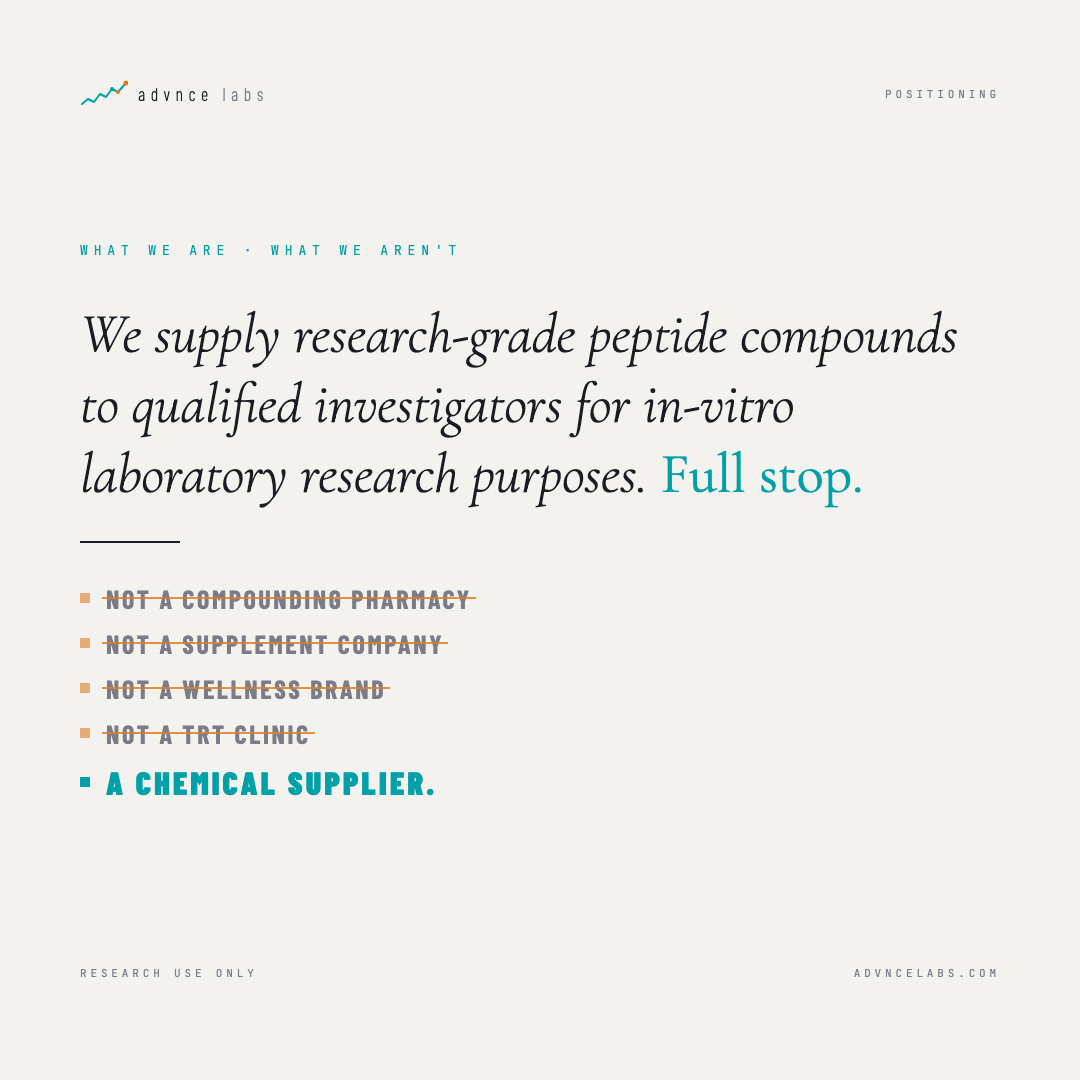
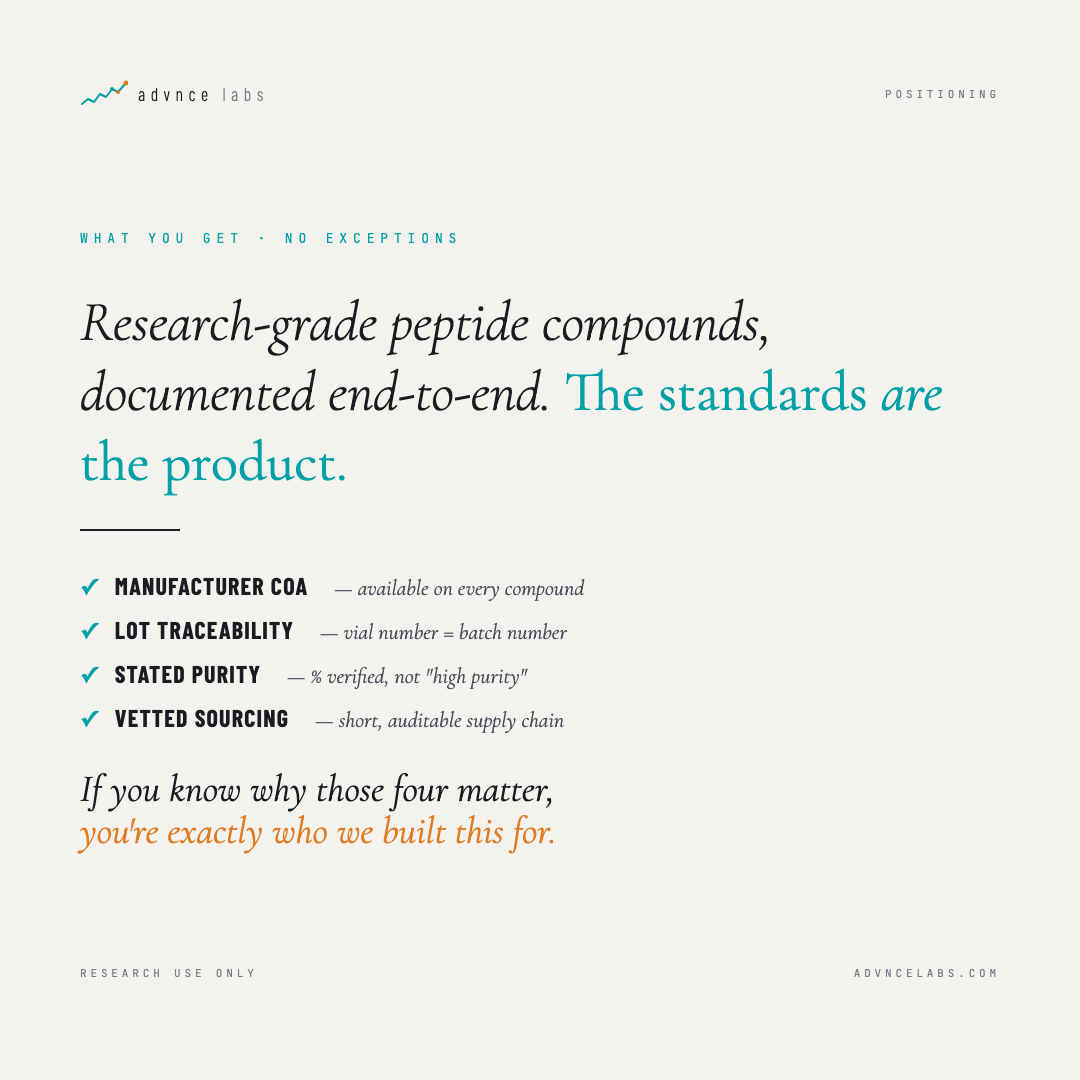
positioning template + launch captions: warmer, less defensive
Image template flipped from "NOT a compounding pharmacy / NOT a supplement
company / ... / A CHEMICAL SUPPLIER" to a positive standards-led frame:
"WHAT YOU GET · NO EXCEPTIONS" + 4 cyan checkmarks (Manufacturer COA, Lot
Traceability, Stated Purity, Vetted Sourcing) + "you're exactly who we
built this for" amber-accented italic close. Same RUO cover, much warmer.

Day 0/1/2 captions in Supabase rewritten in parallel — dropped "We're a
chemical supplier. Full stop." and "legal weight" framing in favor of
positive standards-led copy that invites the audience instead of walling
them off. Still RUO-compliant: no outcome claims, no therapeutic implication,
"For research use only" disclaimer remains on every post.

diff --git a/templates/social/positioning_manifesto.html b/templates/social/positioning_manifesto.html
@@ -76,51 +76,59 @@
     margin-bottom: 40px;
   }
 
-  .not-list {
+  .standards-list {
     display: flex;
     flex-direction: column;
     gap: 14px;
-    margin-bottom: 40px;
+    margin-bottom: 36px;
   }
-  .not-list .row {
+  .standards-list .row {
     display: flex;
-    align-items: center;
-    gap: 16px;
+    align-items: baseline;
+    gap: 18px;
     font-family: 'Barlow Condensed', sans-serif;
     font-weight: 700;
-    font-size: 26px;
-    letter-spacing: 0.1em;
+    font-size: 24px;
+    letter-spacing: 0.05em;
     text-transform: uppercase;
-    color: #7A7D88;
-  }
-  .not-list .row .strike {
-    position: relative;
-    display: inline-block;
-  }
-  .not-list .row .strike::after {
-    content: '';
-    position: absolute;
-    left: -4px; right: -4px;
-    top: 50%;
-    height: 2px;
-    background: #E07C24;
-    transform: translateY(-50%);
-    opacity: 0.85;
-  }
-  .not-list .row.final {
     color: #1A1C22;
-    font-weight: 900;
-    font-size: 32px;
   }
-  .not-list .row.final .mark {
+  .standards-list .check {
+    flex: 0 0 auto;
     color: #00A0A8;
+    font-family: 'Barlow Condensed', sans-serif;
+    font-weight: 900;
+    font-size: 22px;
+    letter-spacing: 0;
+    line-height: 1;
   }
-  .not-list .bullet {
-    width: 10px; height: 10px; background: #E07C24;
-    display: inline-block;
-    opacity: 0.6;
+  .standards-list .label {
+    font-weight: 700;
+    color: #1A1C22;
   }
-  .not-list .bullet.cyan { background: #00A0A8; opacity: 1; }
+  .standards-list .gloss {
+    font-family: 'Cormorant Garamond', serif;
+    font-style: italic;
+    font-weight: 400;
+    text-transform: none;
+    letter-spacing: 0;
+    font-size: 22px;
+    color: #4A4F5C;
+    margin-left: 8px;
+  }
+  .closer {
+    font-family: 'Cormorant Garamond', serif;
+    font-style: italic;
+    font-weight: 400;
+    font-size: 38px;
+    line-height: 1.1;
+    color: #1A1C22;
+  }
+  .closer strong {
+    font-style: italic;
+    font-weight: 400;
+    color: #E07C24;
+  }
 
   .footer-bar {
     display: flex; align-items: center; justify-content: space-between;
@@ -142,16 +150,16 @@
     </div>
 
     <div class="content">
-      <div class="eyebrow">WHAT WE ARE &middot; WHAT WE AREN'T</div>
-      <div class="statement">We supply research-grade peptide compounds to qualified investigators for in-vitro laboratory research purposes. <strong>Full stop.</strong></div>
+      <div class="eyebrow">WHAT YOU GET &middot; NO EXCEPTIONS</div>
+      <div class="statement">Research-grade peptide compounds, documented end-to-end. <strong>The standards <em>are</em> the product.</strong></div>
       <div class="divider"></div>
-      <div class="not-list">
-        <div class="row"><span class="bullet"></span><span class="strike">Not a compounding pharmacy</span></div>
-        <div class="row"><span class="bullet"></span><span class="strike">Not a supplement company</span></div>
-        <div class="row"><span class="bullet"></span><span class="strike">Not a wellness brand</span></div>
-        <div class="row"><span class="bullet"></span><span class="strike">Not a TRT clinic</span></div>
-        <div class="row final"><span class="bullet cyan"></span><span class="mark">A chemical supplier.</span></div>
+      <div class="standards-list">
+        <div class="row"><span class="check">✓</span><span class="label">Manufacturer COA</span><span class="gloss">— available on every compound</span></div>
+        <div class="row"><span class="check">✓</span><span class="label">Lot traceability</span><span class="gloss">— vial number = batch number</span></div>
+        <div class="row"><span class="check">✓</span><span class="label">Stated purity</span><span class="gloss">— % verified, not "high purity"</span></div>
+        <div class="row"><span class="check">✓</span><span class="label">Vetted sourcing</span><span class="gloss">— short, auditable supply chain</span></div>
       </div>
+      <div class="closer">If you know why those four matter,<br/><strong>you're exactly who we built this for.</strong></div>
     </div>
 
     <div class="footer-bar">
